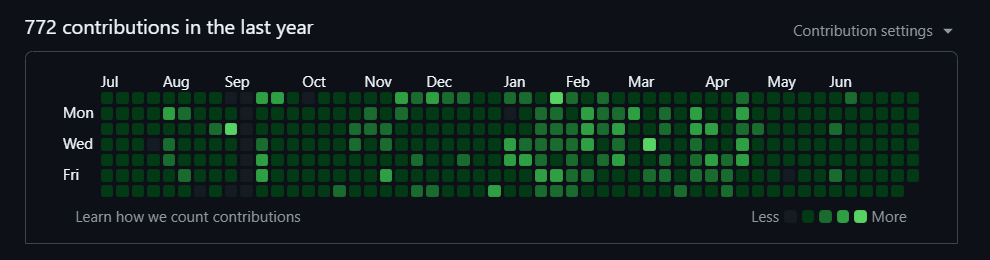
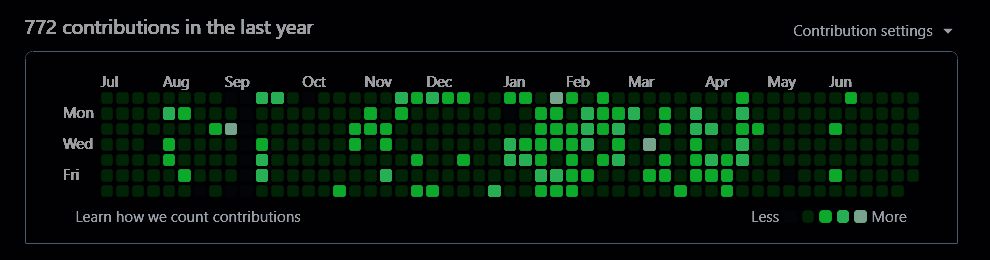
add skill section

diff --git a/about.html b/about.html
@@ -6,9 +6,9 @@
   <title>Vikas Pal </title>
   <script src="https://cdn.tailwindcss.com"></script>
    <link href="https://cdn.jsdelivr.net/npm/remixicon@4.5.0/fonts/remixicon.css" rel="stylesheet" />
-    <link rel="stylesheet" href="style.css">
+    <link rel="stylesheet" href="about.css">
 </head>
-<body class="bg-black text-white ">
+<body class="bg-[#010204] flex justify-center text-white ">
 
   <section class="flex flex-col w-[700px]">
 
@@ -17,14 +17,14 @@
   <section class="mt-10 flex items-center justify-center px-4">
     <div class="flex gap-5 md:gap-10">
        <div class="mt-4">
-        <img src="https://avatars.githubusercontent.com/u/113900393?v=4" alt="Dillion" class="w-[200px]  md:w-32 object-cover rounded-full ">
+        <img src="https://avatars.githubusercontent.com/u/113900393?v=4"  class="w-[200px]  md:w-32 object-cover rounded-full ">
       </div>
       
       <!-- Text Section -->
       <div class=" md:text-left">
 
         <h1 class="text-2xl md:text-4xl  font-bold mb-4">
-          Hi, I'm <span class="text-white">Vikas</span> 
+          Hi, I'm <span class="text-white">Vikas 🍃</span> 
         </h1>
         <p class="text-gray-300 md:text-xl max-w-[500px] mb-[0px]">
           Software Engineer turned Entrepreneur. I love building things and helping people. Very activer.
@@ -45,9 +45,11 @@
           <p>My world revolves around full-stack AI application development, where I integrate cutting-edge AI with frontend and backend expertise to build intelligent, scalable solutions. As a self-taught developer, I specialize in transforming ideas into production-ready AI-powered applications. Driven by curiosity, I create AI-driven solutions to real-world challenges and have won 6 hackathons by solving complex problems with innovation and speed. I continuously explore new technologies to stay ahead in this evolving industry.</p>
         </div>
 
-      </section>
-      
-   <img class="mt-10 rounded-[5px]" src="./image/githubcontry.png" alt="">
+  </section>
+  
+  <section>
+    <img class="mt-10 rounded-[5px]" src="./image/githubcontry.png" alt="">
+  </section>
 
    <section class="px-4">
      <h2 class="text-2xl font-bold mb-6 mt-10">Work Experience</h2>
@@ -77,46 +79,45 @@
   </div>
    </section>
    
-      <section class="px-4">
-     <h2 class="text-2xl font-bold mb-6 mt-10">Skills </h2>
+  <section class="px-4">
+    <h2 class="text-2xl font-bold mb-6 mt-10">Skills </h2>
+     <div class="skill-col">
+       <a class="tech-icon inline-flex p-1 rounded-[3px] items-center gap-2 text-white"><img src="./image/python.png" class="w-4" alt="Python Icon">Python</a>
+       <a class="tech-icon inline-flex p-1 rounded-[3px] items-center gap-2 text-white"><img src="./image/c-.png" class="w-4" alt="Python Icon">C/C++</a>
+       <a class="tech-icon inline-flex p-1 rounded-[3px] items-center gap-2 text-white"><img src="./image/js.png" class="w-4" alt="Python Icon">Javascript</a>
+       <a class="tech-icon inline-flex p-1 rounded-[3px] items-center gap-2 text-white"><img src="./image/typescript.png" class="w-4" alt="Pytho Icon">Typescript</a>
+       <a class="tech-icon inline-flex p-1 rounded-[3px] items-center gap-2 text-white"><img src="./image/programing.png" class="w-4" alt="Pytho Icon">Node js</a>
+      
 
-  <div class="skill-col">
-        <p>Python</p>
-        <p>C/C++</p>
-        <p>JavaScript</p>
-        <p>TypeScript</p>
-        <p>Node.js</p>
-        <p>Express.js</p>
-        <p>Flask</p>
-        <p>MongoDB</p>
-        <p>HTML & CSS</p>
-        <p>Tailwind CSS</p>
-        <p>EJS</p>
-        <p>Bootstrap</p>
-        <p>Prisma</p>
-        <p>Multer</p>
-        <p>REST APIs</p>
-        <p>Hugging Face</p>
-        <p>Ollama</p>
-        <p>ShadCN</p>
-        <p>Magic UI</p>
-        <p>Locomotive.js</p>
-        <p>Redis</p>
-        <p>LangChain</p>
-        <p>WebSocket</p>
-        <p>Render</p>
-        <p>Vercel</p>
-        <p>SQL</p>
-        <p>Streamlit</p>
-        <p>Git & GitHub</p>
-        <p>GitLab</p>
-        <p>Postman</p>
-        <p>Firebase</p>
-        <p>WebRTC</p>
-        <p>Gradio</p>
-        <p>Mermaid.js</p>
-        <p>D3.js</p>
     </div>
+  </section>
+
+     <section class="px-4">
+     <h2 class="text-2xl font-bold mb-6 mt-10">Hackathons</h2>
+  <div x-data="{ open: false }" class="mb-4 border-b border-gray-700 pb-4">
+    <div class="flex justify-between items-start cursor-pointer" @click="open = !open">
+      <div class="flex gap-4 items-center">
+        <img src="https://cdn.worldvectorlogo.com/logos/shopify.svg" alt="Shopify" class="w-10 h-10 rounded-full bg-white p-1">
+        <div>
+          <h3 class="font-semibold text-lg">Shopify</h3>
+          <p class="text-sm text-gray-400">Software Engineer</p>
+        </div>
+      </div>
+      <span class="text-sm text-gray-400">January 2021 - April 2021</span>
+    </div>
+  </div>
+  <div x-data="{ open: false }" class="mb-4 border-b border-gray-700 pb-4">
+    <div class="flex justify-between items-start cursor-pointer" @click="open = !open">
+      <div class="flex gap-4 items-center">
+        <img src="https://cdn.worldvectorlogo.com/logos/shopify.svg" alt="Shopify" class="w-10 h-10 rounded-full bg-white p-1">
+        <div>
+          <h3 class="font-semibold text-lg">Shopify</h3>
+          <p class="text-sm text-gray-400">Software Engineer</p>
+        </div>
+      </div>
+      <span class="text-sm text-gray-400">January 2021 - April 2021</span>
+    </div>
+  </div>
    </section>
   </section>
 </body>

diff --git a/about.css b/about.css
@@ -1,0 +1,9 @@
+.tech-icon{
+  color: white;
+  background: rgba( 255, 255, 255, 0 );
+  backdrop-filter: blur( 5.5px );
+  -webkit-backdrop-filter: blur( 5.5px );
+  border-radius: 5px;
+  border: 1px solid rgba( 255, 255, 255, 0.18 );
+  font-size: 12px;
+}
